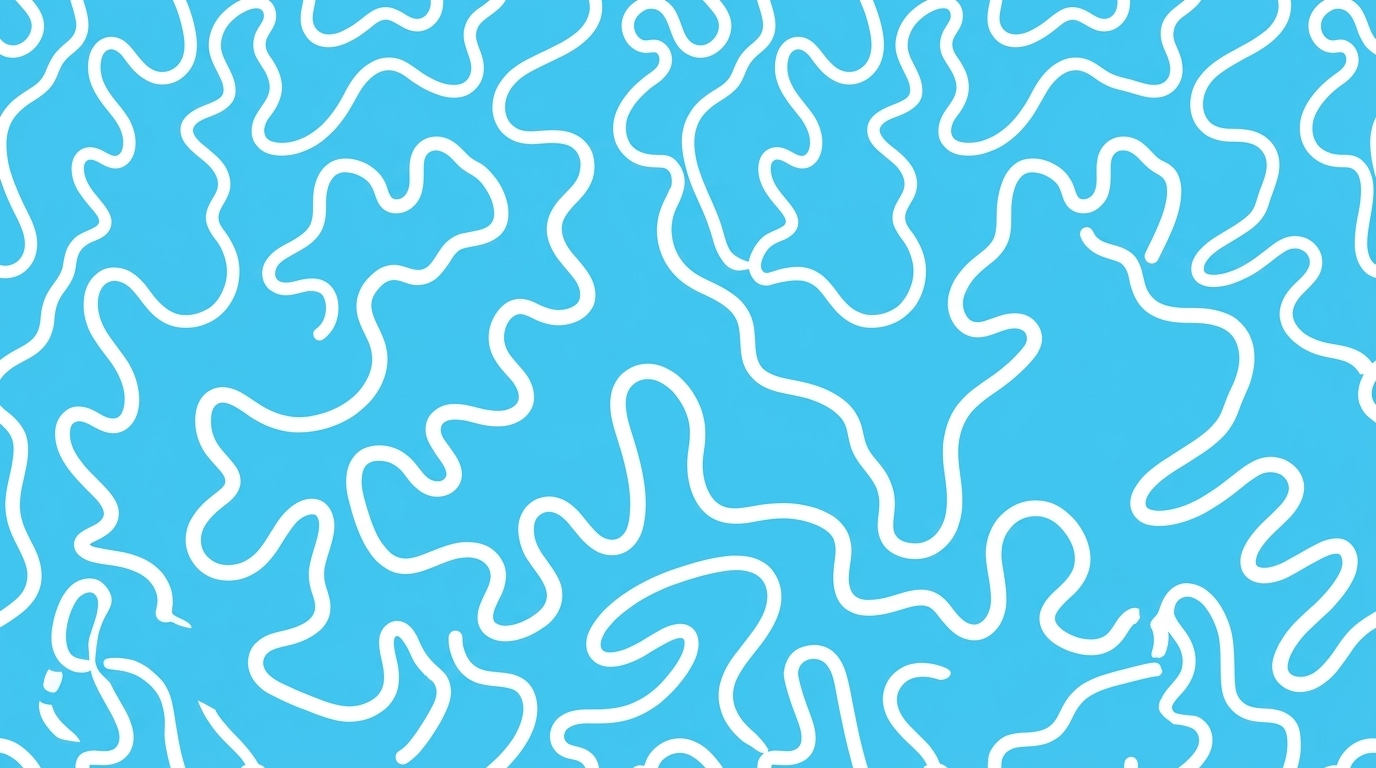
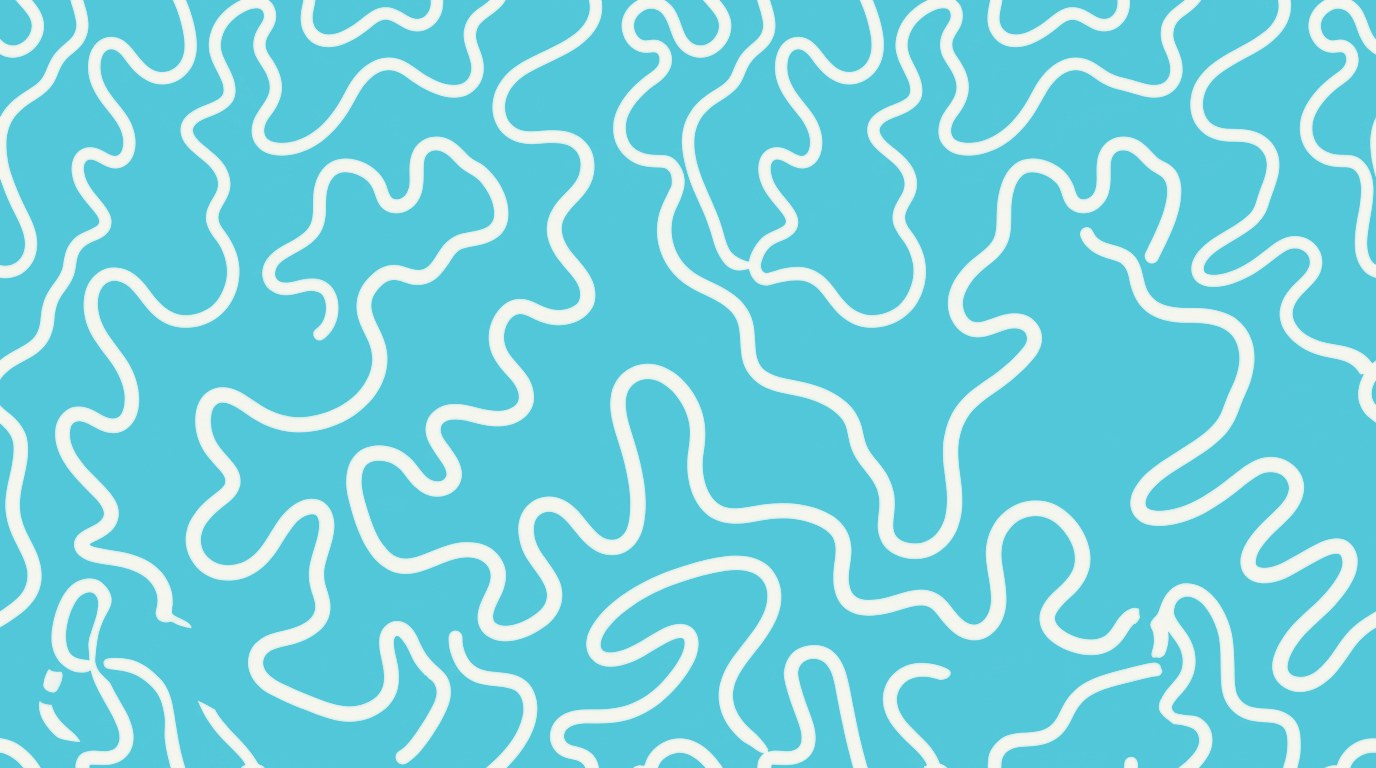
Fondo y títulos con la identidad del local
- Fondo con el celeste de la pared del local (#51c7d9) y líneas casi blancas.
- Chango en los títulos de sección, precios y botones (la más parecida al cartel).
- Títulos con contorno liso y extrusión 3D en una capa aparte (::before), sin
  filtros encadenados, para que el scroll vaya a 60 fps.

diff --git a/styles.css b/styles.css
@@ -3,9 +3,13 @@
     --red-dark: #e02b2b;
     --brown: #660000;
     --yellow: #ffd21f;
-    --sky: #33ccff;
+    --sky: #51c7d9; /* celeste agua de la pared del local (medido al sol, más saturado) */
     --white: #ffffff;
     --card-shadow: 6px 6px 0 var(--brown);
+    /* Profundidad de la extrusión de los títulos (ver .fx-3d) */
+    --ext-lg: 1px 1px 0 var(--brown), 2px 2px 0 var(--brown), 3px 3px 0 var(--brown), 4px 4px 0 var(--brown), 5px 5px 0 var(--brown), 6px 6px 0 var(--brown), 7px 7px 0 var(--brown), 8px 8px 0 var(--brown), 9px 9px 0 var(--brown), 10px 10px 0 var(--brown), 11px 11px 0 var(--brown), 12px 12px 0 var(--brown), 13px 13px 0 var(--brown), 14px 14px 0 var(--brown);
+    --ext-md: 1px 1px 0 var(--brown), 2px 2px 0 var(--brown), 3px 3px 0 var(--brown), 4px 4px 0 var(--brown), 5px 5px 0 var(--brown), 6px 6px 0 var(--brown);
+    --ext-sm: 1px 1px 0 var(--brown), 2px 2px 0 var(--brown), 3px 3px 0 var(--brown), 4px 4px 0 var(--brown);
 }
 
 * {
@@ -123,16 +127,37 @@ body {
     flex-direction: column;
     align-items: center;
     color: var(--red);
-    text-shadow:
-        -2px -2px 0 #ffffff, 2px -2px 0 #ffffff, -2px 2px 0 #ffffff, 2px 2px 0 #ffffff,
-        -2px 0 0 #ffffff, 2px 0 0 #ffffff, 0 -2px 0 #ffffff, 0 2px 0 #ffffff,
-        -4px -4px 0 #660000, 4px -4px 0 #660000, -4px 4px 0 #660000, 4px 4px 0 #660000,
-        -4px 0 0 #660000, 4px 0 0 #660000, 0 -4px 0 #660000, 0 4px 0 #660000,
-        5px 5px 0 #660000, 6px 6px 0 #660000, 7px 7px 0 #660000, 8px 8px 0 #660000,
-        9px 9px 0 #660000, 10px 10px 0 #660000;
     letter-spacing: 3px;
     line-height: 1.1;
     transform: rotate(-3deg);
+    --ext: var(--ext-lg);
+}
+
+/* Títulos con contorno + extrusión 3D.
+   Adelante: contorno liso (trazo real, mide el doble porque la mitad queda tapada por el relleno).
+   Atrás (::before): copia del texto en marrón, con un trazo apenas más grueso (el filo) y
+   text-shadow de a 1px que arma la profundidad sin escalones.
+   Van en capas separadas porque Chrome pinta la sombra del relleno encima del contorno.
+   No usar filter: drop-shadow() encadenado: traba el scroll. */
+.fx-3d {
+    --stroke: 0.1em;
+    --stroke-color: var(--white);
+    position: relative;
+    isolation: isolate;
+    -webkit-text-stroke: var(--stroke) var(--stroke-color);
+    paint-order: stroke fill;
+}
+
+.fx-3d::before {
+    content: attr(data-text);
+    content: attr(data-text) / "";
+    position: absolute;
+    inset: 0;
+    z-index: -1;
+    color: var(--brown);
+    -webkit-text-stroke: calc(var(--stroke) + 3px) var(--brown);
+    text-shadow: var(--ext, var(--ext-md));
+    pointer-events: none;
 }
 
 .main-title {
@@ -175,17 +200,15 @@ body {
     font-weight: 700;
     letter-spacing: 1px;
     color: var(--red);
-    text-shadow:
-        1px 1px 0 #ffffff, -1px -1px 0 #ffffff,
-        1px -1px 0 #ffffff, -1px 1px 0 #ffffff;
+    -webkit-text-stroke: 4px var(--white);
+    paint-order: stroke fill;
 }
 
 .arrow {
     font-size: 3rem;
     color: var(--red);
-    text-shadow:
-        1px 1px 0 #ffffff, -1px -1px 0 #ffffff,
-        1px -1px 0 #ffffff, -1px 1px 0 #ffffff;
+    -webkit-text-stroke: 4px var(--white);
+    paint-order: stroke fill;
 }
 
 /* Menu Section */
@@ -212,9 +235,6 @@ body {
     font-size: 5rem;
     color: var(--red);
     margin-bottom: 30px;
-    text-shadow:
-        -2px -2px 0 #ffffff, 2px -2px 0 #ffffff, -2px 2px 0 #ffffff, 2px 2px 0 #ffffff,
-        4px 4px 0 #660000, 5px 5px 0 #660000;
 }
 
 /* Avisos (salen con papas / dip) */
@@ -228,7 +248,7 @@ body {
 }
 
 .note {
-    font-family: 'Titan One', sans-serif;
+    font-family: 'Chango', sans-serif;
     font-size: 1.05rem;
     color: var(--red);
     padding: 10px 20px;
@@ -252,16 +272,16 @@ body {
 }
 
 .block-title {
-    font-family: 'Titan One', sans-serif;
+    font-family: 'Chango', sans-serif;
     font-weight: normal;
     font-size: 2.6rem;
     text-align: center;
     color: var(--white);
     margin-bottom: 28px;
     letter-spacing: 1px;
-    text-shadow:
-        -2px -2px 0 var(--red), 2px -2px 0 var(--red), -2px 2px 0 var(--red), 2px 2px 0 var(--red),
-        4px 4px 0 var(--brown), 5px 5px 0 var(--brown);
+    --stroke: 0.14em;
+    --stroke-color: var(--red);
+    --ext: var(--ext-sm);
 }
 
 /* Flex en vez de grid para que la última fila (2 de 5 burgas) quede centrada */
@@ -320,7 +340,7 @@ body {
 }
 
 .product-num {
-    font-family: 'Titan One', sans-serif;
+    font-family: 'Chango', sans-serif;
     font-size: 0.95rem;
     color: var(--white);
     background: var(--red);
@@ -330,7 +350,7 @@ body {
 }
 
 .product-name {
-    font-family: 'Titan One', sans-serif;
+    font-family: 'Chango', sans-serif;
     font-weight: normal;
     font-size: 1.6rem;
     line-height: 1.15;
@@ -381,7 +401,7 @@ body {
 }
 
 .prices dd {
-    font-family: 'Titan One', sans-serif;
+    font-family: 'Chango', sans-serif;
     font-size: 1.35rem;
     color: var(--red);
 }
@@ -417,7 +437,7 @@ body {
 }
 
 .cajita-title {
-    font-family: 'Titan One', sans-serif;
+    font-family: 'Chango', sans-serif;
     font-weight: normal;
     font-size: 2.3rem;
     line-height: 1.05;
@@ -453,7 +473,7 @@ body {
 
 .combo-list dd {
     display: inline-block;
-    font-family: 'Titan One', sans-serif;
+    font-family: 'Chango', sans-serif;
     font-size: 1.5rem;
     color: var(--white);
     background: var(--red);
@@ -506,14 +526,14 @@ body {
 
 .price-list dd {
     order: 3;
-    font-family: 'Titan One', sans-serif;
+    font-family: 'Chango', sans-serif;
     font-size: 1.2rem;
 }
 
 .coming-soon {
     margin: 36px auto 0;
     width: fit-content;
-    font-family: 'Titan One', sans-serif;
+    font-family: 'Chango', sans-serif;
     font-size: 1.8rem;
     color: var(--red);
     background: var(--yellow);
@@ -539,9 +559,6 @@ body {
     color: var(--red);
     margin-top: 40px;
     margin-bottom: 30px;
-    text-shadow:
-        -2px -2px 0 #ffffff, 2px -2px 0 #ffffff, -2px 2px 0 #ffffff, 2px 2px 0 #ffffff,
-        4px 4px 0 #660000, 5px 5px 0 #660000;
 }
 
 .horarios-container {
@@ -563,7 +580,7 @@ body {
 }
 
 .hours-list dt {
-    font-family: 'Titan One', sans-serif;
+    font-family: 'Chango', sans-serif;
     font-size: 1.35rem;
     color: var(--red);
     text-transform: uppercase;
@@ -630,7 +647,7 @@ body {
     justify-content: center;
     min-height: 48px;
     padding: 0 24px;
-    font-family: 'Titan One', sans-serif;
+    font-family: 'Chango', sans-serif;
     font-size: 1.05rem;
     text-transform: uppercase;
     text-decoration: none;
@@ -719,6 +736,11 @@ body {
 
     .main-title {
         font-size: 5rem;
+    }
+
+    /* Título más chico: extrusión más corta para que no se empaste */
+    .brand-name {
+        --ext: var(--ext-md);
     }
 
     .sub-title {
@@ -825,23 +847,21 @@ body {
     font-size: 1rem;
     color: var(--red);
     font-weight: 700;
-    text-shadow:
-        1px 1px 0 #ffffff, -1px -1px 0 #ffffff,
-        1px -1px 0 #ffffff, -1px 1px 0 #ffffff;
+    -webkit-text-stroke: 4px var(--white);
+    paint-order: stroke fill;
 }
 
 .site-footer a {
     color: var(--red);
     text-decoration: underline;
     font-weight: 700;
-    transition: color 0.3s ease, text-shadow 0.3s ease;
+    transition: color 0.3s ease, -webkit-text-stroke-color 0.3s ease;
 }
 
+/* Al pasar el mouse se invierte: letra blanca con contorno rojo */
 .site-footer a:hover {
     color: #ffffff;
-    text-shadow:
-        1px 1px 0 var(--red), -1px -1px 0 var(--red),
-        1px -1px 0 var(--red), -1px 1px 0 var(--red);
+    -webkit-text-stroke-color: var(--red);
 }
 
 /* Respetar a quien tiene activado "reducir movimiento" en su dispositivo */

diff --git a/index.html b/index.html
@@ -5,7 +5,7 @@
     <meta name="viewport" content="width=device-width, initial-scale=1.0">
     <title>Gordis Burger – Unas buenas burgas</title>
     <meta name="description" content="Gordis Burger: unas buenas burgas. Hamburguesas smash con papas, nuggets, la cajita del Pochoclo y más. Mirá el menú, los precios y los horarios.">
-    <meta name="theme-color" content="#33ccff">
+    <meta name="theme-color" content="#51c7d9">
 
     <!-- Vista previa al compartir el link (WhatsApp, Instagram, Facebook, X) -->
     <meta property="og:type" content="website">
@@ -25,7 +25,7 @@
     <link rel="stylesheet" href="styles.css">
     <link rel="preconnect" href="https://fonts.googleapis.com">
     <link rel="preconnect" href="https://fonts.gstatic.com" crossorigin>
-    <link href="https://fonts.googleapis.com/css2?family=Fredoka:wght@400;500;700&family=Titan+One&display=swap" rel="stylesheet">
+    <link href="https://fonts.googleapis.com/css2?family=Fredoka:wght@400;500;700&family=Chango&display=swap" rel="stylesheet">
 </head>
 <body>
     <div id="the-logo" aria-hidden="true">
@@ -36,8 +36,8 @@
     <header class="hero">
         <div class="logo-container">
             <h1 class="brand-name">
-                <span class="main-title">GORDIS</span>
-                <span class="sub-title">BURGER</span>
+                <span class="main-title fx-3d" data-text="GORDIS">GORDIS</span>
+                <span class="sub-title fx-3d" data-text="BURGER">BURGER</span>
             </h1>
         </div>
         <a href="#menu-section" class="scroll-indicator">
@@ -48,7 +48,7 @@
 
     <main id="menu-section" class="menu-section">
         <div class="title-container">
-            <h2>Nuestro Menú</h2>
+            <h2 class="fx-3d" data-text="Nuestro Menú">Nuestro Menú</h2>
         </div>
 
         <ul class="menu-notes">
@@ -58,7 +58,7 @@
 
         <!-- ===== BURGAS ===== -->
         <section class="menu-block" aria-labelledby="t-burgas">
-            <h3 id="t-burgas" class="block-title">Burgas</h3>
+            <h3 id="t-burgas" class="block-title fx-3d" data-text="Burgas">Burgas</h3>
             <div class="card-grid">
                 <article class="product-card">
                     <div class="product-photo">
@@ -155,7 +155,7 @@
 
         <!-- ===== ACOMPAÑAMIENTOS ===== -->
         <section class="menu-block" aria-labelledby="t-extras">
-            <h3 id="t-extras" class="block-title">Para acompañar</h3>
+            <h3 id="t-extras" class="block-title fx-3d" data-text="Para acompañar">Para acompañar</h3>
             <div class="card-grid card-grid-2">
                 <article class="product-card">
                     <div class="product-photo">
@@ -187,7 +187,7 @@
 
         <!-- ===== BEBIDAS ===== -->
         <section class="menu-block" aria-labelledby="t-bebidas">
-            <h3 id="t-bebidas" class="block-title">Bebidas</h3>
+            <h3 id="t-bebidas" class="block-title fx-3d" data-text="Bebidas">Bebidas</h3>
             <div class="list-card">
                 <dl class="price-list">
                     <div><dt>Gaseosa línea Pepsi</dt><dd>$3.000</dd></div>
@@ -202,7 +202,7 @@
 
         <!-- ===== HORARIOS ===== -->
         <div class="title-container">
-            <h2 class="horarios-title" id="horarios">Horarios</h2>
+            <h2 class="horarios-title fx-3d" id="horarios" data-text="Horarios">Horarios</h2>
         </div>
         <div class="horarios-container">
             <div class="list-card horarios-card">
